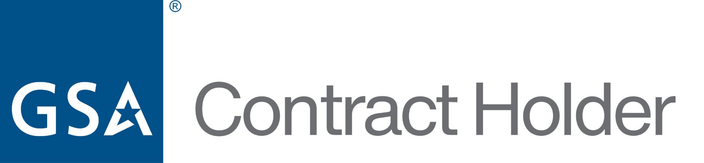
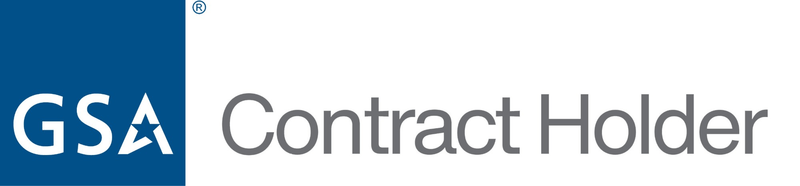
Footer: larger GSA badge, tight to its mark
The badge runs 28px past its column into the grid gap (146px on a
desktop column of 118), capped at 210px. The corner radius is gone: the
image is cropped to the mark's ink, and rounding clipped the GSA
square. The gap above it tightens from 24px to 16px.

Claude-Session: https://claude.ai/code/session_01S6fYDmVu7q6hjxHN41LmkH

diff --git a/aci-infotech/src/components/v4/hero/SiteFooter.tsx b/aci-infotech/src/components/v4/hero/SiteFooter.tsx
@@ -70,8 +70,8 @@ const COLUMNS: { title: string; links: FooterLink[]; badge?: ColumnBadge }[] = [
     badge: {
       src: '/images/certifications-awards/gsa-contract-holder.png',
       alt: 'GSA Contract Holder',
-      width: 704,
-      height: 163,
+      width: 800,
+      height: 186,
     },
   },
   {
@@ -178,9 +178,11 @@ export default function SiteFooter({ headingClass }: { headingClass: string }) {
                     width={col.badge.width}
                     height={col.badge.height}
                     /* Tailwind's preflight caps images at their column, so
-                       the width is written relative to it: 4px past the
-                       column edge, never more than 180px. */
-                    className="mt-6 h-auto w-[calc(100%+4px)] max-w-[180px] rounded-md"
+                       the width is written relative to it: 28px past the
+                       column edge, into the grid gap, never more than
+                       210px. No corner radius: the mark is cropped to its
+                       ink, so rounding would clip the GSA square. */
+                    className="mt-4 h-auto w-[calc(100%+28px)] max-w-[210px]"
                     sizes="176px"
                   />
                 ) : null}
